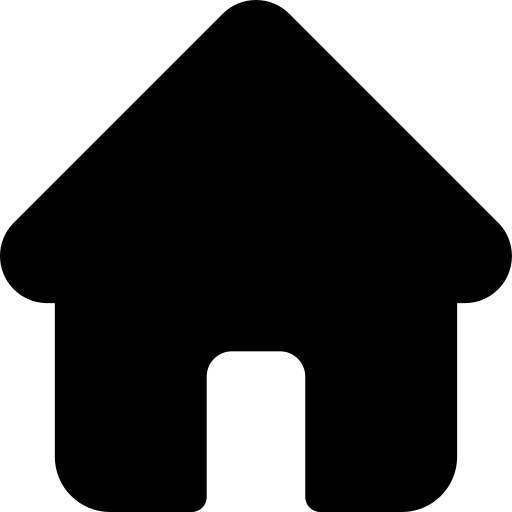
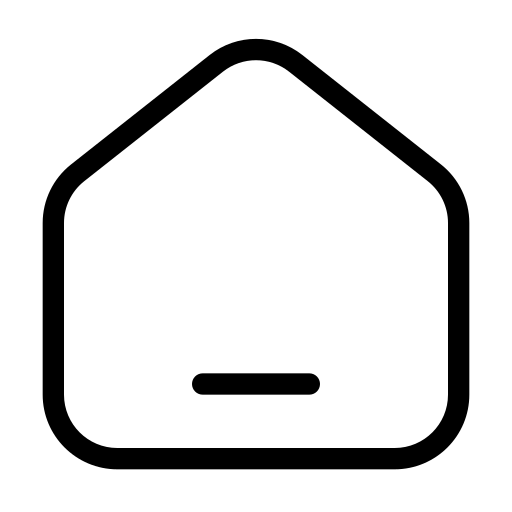
footer en cours 2

diff --git a/app/assets/stylesheets/pages/_ingredient_list.scss b/app/assets/stylesheets/pages/_ingredient_list.scss
@@ -214,7 +214,7 @@ $border:         rgba(0,0,0,0.06);
 /* ====== Responsive ====== */
 @media (max-width: 540px) {
   .shopping-card { padding: 14px 16px 14px; }
-  .shopping-card tbody td { padding: 10px 20px; }
+  .shopping-card tbody td { padding: 10px 16px; }
   .shopping-card tbody td:nth-child(1) { width: 50%; }
   .shopping-card tbody td:nth-child(2),
   .shopping-card tbody td:nth-child(3) { width: 22%; }

diff --git a/app/assets/stylesheets/pages/_home.scss b/app/assets/stylesheets/pages/_home.scss
@@ -15,6 +15,11 @@ $text-muted:     #7c8b91;
 $card-bg:        #ffffff;
 
 /* ===== Hero ===== */
+.homepage {
+  height: 105vh;
+  background:#00524F;
+  padding:16px;
+}
 
 .hero {
   position: relative;
